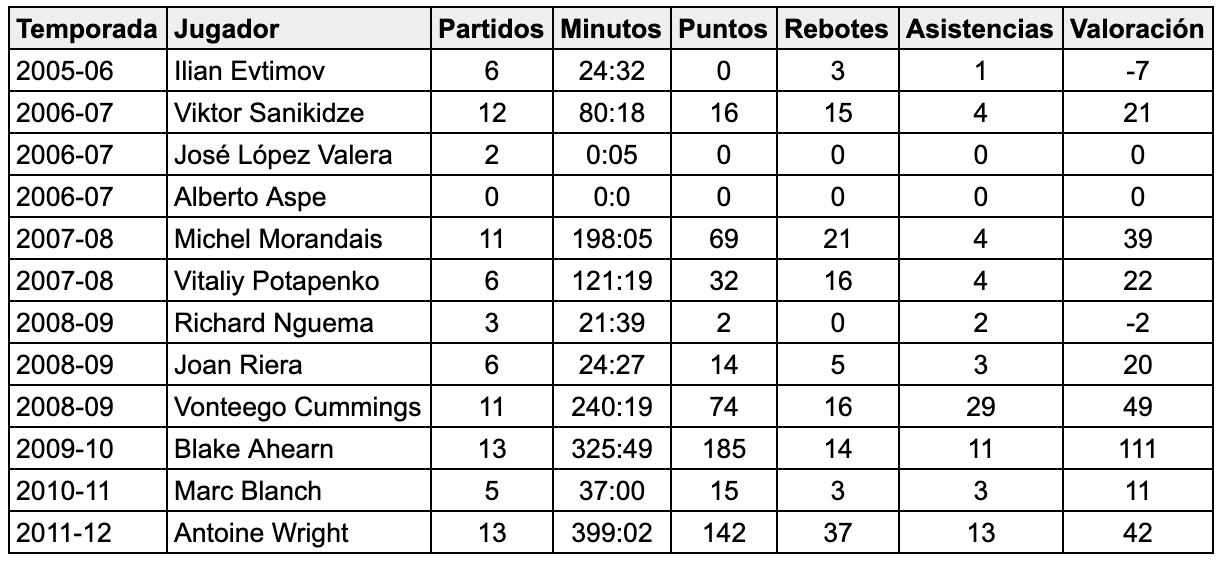
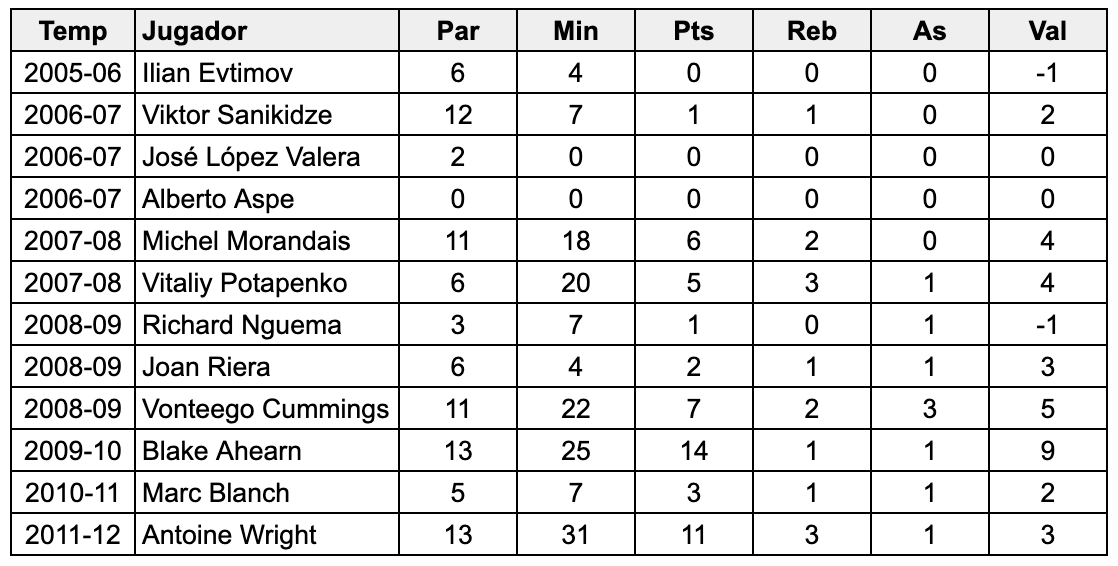
Cambiar tabla valores absolutos por medios (jugadores inolvidables i) y correcciones menores

Changed region(s): [[0.0, 0.0, 1.0, 0.9982]]

diff --git a/public/cronologia/2017-18/index.html b/public/cronologia/2017-18/index.html
@@ -151,7 +151,7 @@
 <p>La parte negativa de la temporada es la eliminación en la Basketball Champions League en el partido disputado en Venecia, donde bastaba con ganar para clasificarse. <a href="https://www.marca.com/baloncesto/champions-league/2018/02/06/5a7a006ee2704e0f5e8b45f2.html">Tras remontar 21 puntos</a> y teniendo la última posesión para ganar el partido, nadie se enteró bien de lo que había que hacer y en lugar de buscar una canasta sencilla, buscamos un triple que fallamos y que llevó a un triple empate que nos dejaba fuera de la siguiente fase. Una de esas circunstancias que los aficionados llamamos &ldquo;estudiantescas&rdquo;.</p>
 <p>En la parte positiva, este año se consolidan los proyectos de Edgar Vicedo y Darío Brizuela. Y, por supuesto, la victoria en el Palau Blaugrana en un partido maravilloso de <a href="https://www.gigantes.com/liga-endesa/sylven-landesberg-best-acb/">Sylven Landesberg que anotó 48 puntos</a>.</p>
 <p>El equipo termina en undécima posición con 17 victorias y 17 derrotas.</p>
-<p>### Plantilla 2017-18</p>
+<h3 id="plantilla-2017-18">Plantilla 2017-18</h3>
 <ul>
 <li>Aleksandar Cvetkovic</li>
 <li>Ludde Hakanson</li>

diff --git a/public/informes/jugadores-inolvidables-i/index.html b/public/informes/jugadores-inolvidables-i/index.html
@@ -209,8 +209,8 @@
 <h3 id="datos-estadísticos">Datos estadísticos</h3>
 <p>Los jugadores de la lista en datos:</p>
 <div class="img">
-<img src=/img/jugadores-inolvidables-i.png alt=Estadísticas&#32;de&#32;los&#32;jugadores style="max-width: 100%">
-<figcaption>Estadísticas de los jugadores</figcaption>
+<img src=/img/jugadores-inolvidables-i.png alt=Estadísticas&#32;de&#32;los&#32;jugadores&#32;(valores&#32;medios) style="max-width: 100%">
+<figcaption>Estadísticas de los jugadores (valores medios)</figcaption>
 </div>
 </div>
       </div>

diff --git a/content/informes/jugadores-inolvidables-iii.md b/content/informes/jugadores-inolvidables-iii.md
@@ -59,6 +59,12 @@ Llegamos a la temporada 2019-20. Uno de los fichajes es este jugador formado en 
 
 Participó en 8 partidos en los que anotó 1 punto y cogió 1 rebote. ¿De media? No, en total.
 
+**Duje Dukan**
+
+Uno de los primeros fichajes de la temporada, este cuatro tirador croata proveniente de la G-League pasó casi totalmente desapercibido, dejando la impresión de que la categoría le quedaba muy grande.
+
+La temporada siguiente jugó en LEB Oro, con unos números más bien discretos. Pero ojo, hay un apartado estadístico donde sí destaca: es el jugador de LEB Oro [con más seguidores en Twitter](https://zonadebasquet.com/2020/10/28/oro-20-21-los-jugadores-mas-seguidos-tw-ig/).
+
 **Toney Douglas**
 
 Otro caso de la famosa "falta de adaptación". Llegó con 1-9 y se marchó tras 11 partidos.Su principal aportación fue dejar en la grada a la perla canterana Dovy Giedraitis.
@@ -96,3 +102,10 @@ Pero seguro que hay un elemento común: José Juan Barea, base con una larga tra
 ¿A quién querrías olvidar tú?
 
 {{< image src="/img/jj-barea.gif" alt="JJ fronteando de acento boricua en una tiraera" >}}
+
+### Datos estadísticos
+
+Los jugadores de la lista en datos:
+
+{{< image src="/img/jugadores-inolvidables-iii.png" alt="Estadísticas de los jugadores (valores medios)" >}}
+

diff --git a/content/informes/jugadores-inolvidables-ii.md b/content/informes/jugadores-inolvidables-ii.md
@@ -84,3 +84,10 @@ Ante la falta de anotación y rebote se trajo a Pumprla que promedió 3 puntos y
 {{< image src="/img/pavel-pumprla.jpg" alt="Con Pumprla la cosa se torció desde el primer momento" >}}
 
 (continuará...)
+
+### Datos estadísticos
+
+Los jugadores de la lista en datos:
+
+{{< image src="/img/jugadores-inolvidables-ii.png" alt="Estadísticas de los jugadores (valores medios)" >}}
+

diff --git a/content/informes/jugadores-inolvidables-i.md b/content/informes/jugadores-inolvidables-i.md
@@ -105,5 +105,5 @@ A esto merece la pena ponerle cara:
 
 Los jugadores de la lista en datos:
 
-{{< image src="/img/jugadores-inolvidables-i.png" alt="Estadísticas de los jugadores" >}}
+{{< image src="/img/jugadores-inolvidables-i.png" alt="Estadísticas de los jugadores (valores medios)" >}}
 

diff --git a/content/cronologia/2017-18.md b/content/cronologia/2017-18.md
@@ -34,7 +34,7 @@ En la parte positiva, este año se consolidan los proyectos de Edgar Vicedo y Da
 
 El equipo termina en undécima posición con 17 victorias y 17 derrotas.
 
-### Plantilla 2017-18
+### Plantilla 2017-18
 
 - Aleksandar Cvetkovic
 - Ludde Hakanson
